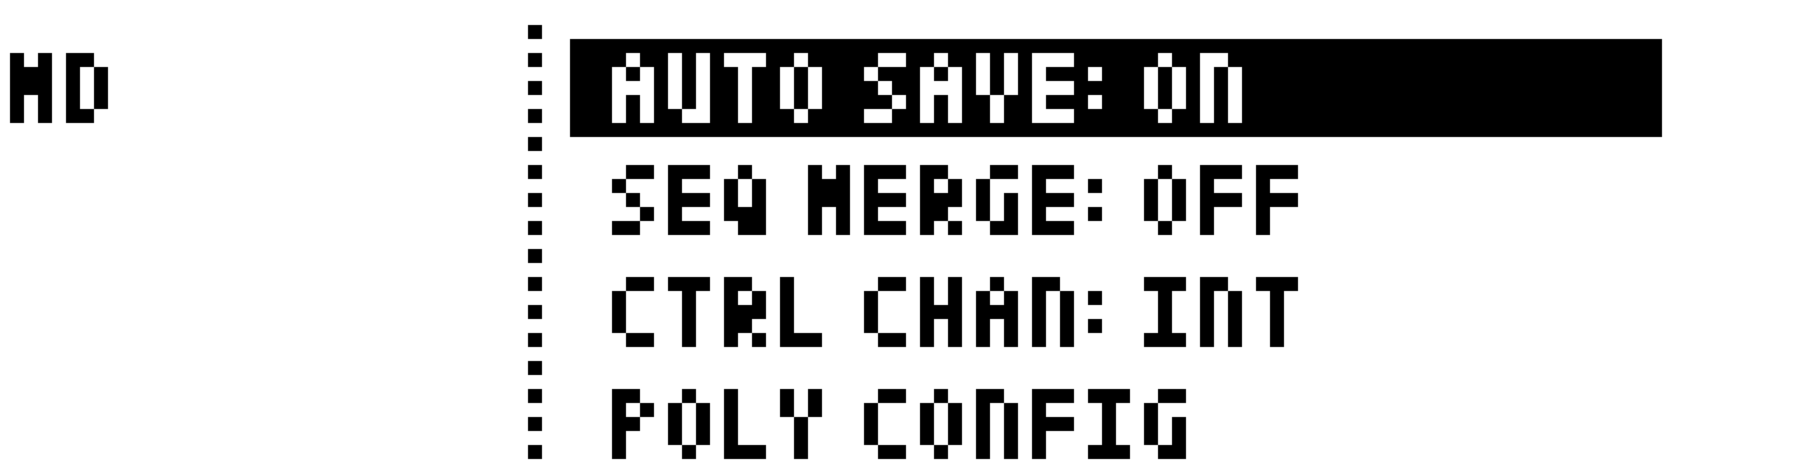
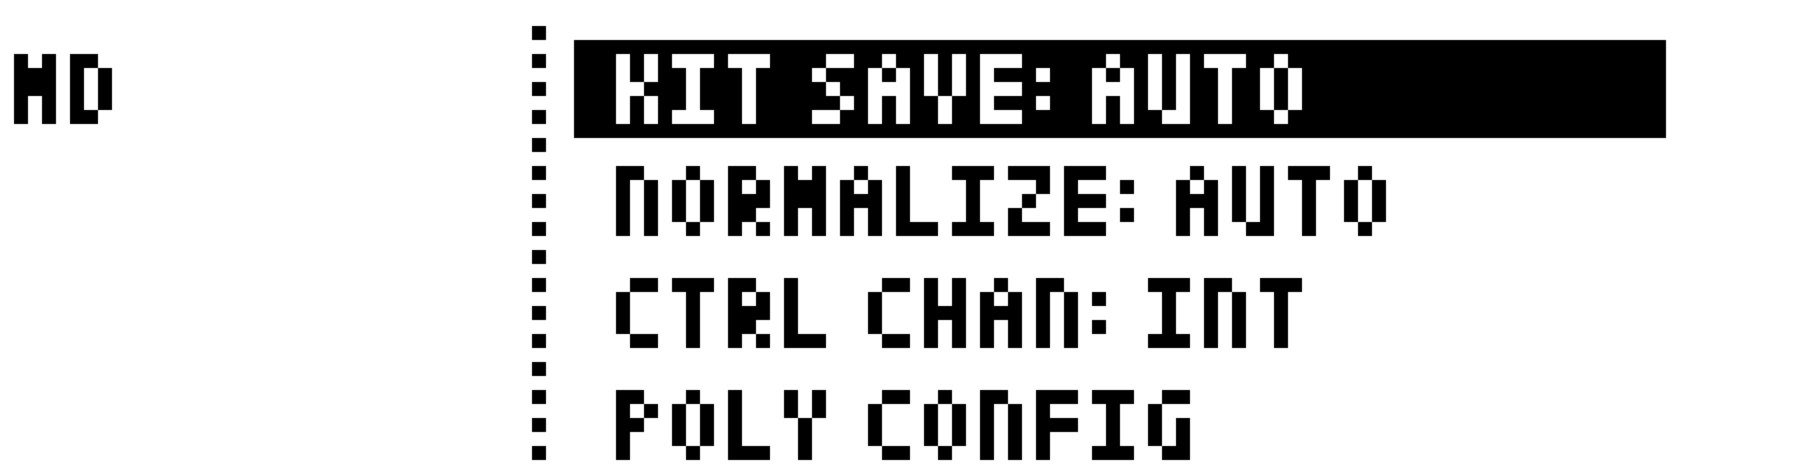
Updates from Overleaf

diff --git a/MCL Documentation/TeX_files/loudness_page.tex b/MCL Documentation/TeX_files/loudness_page.tex
@@ -1,22 +1,23 @@
 \chapter{Loudness Page}
-Gain staging and loudness levels between patterns on the MD can be a complicated issue.\\
+Gain staging and matching loudness levels between patterns on the MD can be a complicated issue.\\
 \\
-As a general rule of thumb, the track LEV parmater should control the absolute volume of a track where as the VOL parameter should be used to control relative level to other tracks. This means that you can confidently set a sounds level to it's maximum by turning the LEV paramater to 127, and not unexpectedly exceed it.\\
+As a general rule of thumb, the track LEV parameter should control the absolute volume of a track; the VOL parameter should be used to control relative level to other tracks. This allows setting a sound level to its maximum by turning the LEV paramater to 127, and not unexpectedly exceed it.\\
 \\
-When working on different kits you can end up with completely different loudness levels, depending on your style of programming and the configuration of master effects.\\
+When working on different kits you can end up with completely different loudness levels, depending on your style of programming and the configuration of master effects.\\\\
+\fbox{\includegraphics[scale=.40]{loudness_page.png}}
+\\\\\textit{The Loudness Page is accessible from the PageSelect page.}
+\section{Encoder Assignment:}
+\begin{itemize}
+	\item \textbf{[ Encoder 1 ]: } Gain adjustment
+	\item \textbf{[ Encoder 2 ]: } -
+    \item \textbf{[ Encoder 3 ]: } -
+	\item \textbf{[ Encoder 4 ]: } -
+\end{itemize}
 
-The Loudness page features 3 key functions that attempts to address this.
-
-\section{Functions:}
-
-**Track Level Normalise:** When activated,  all track levels have their LEV boosted to 127, and parameters controlling VOL (including parameter locks) are lowered to compensate. 
-
-The resulting track loudness remains the same, but the Track LEV parameter is no longer set arbitrarily. LEV == 127 will always be the loudest volume for a track.
-
-Gain Boost:
-
+\section{Gain Boost:}
 The ability to boost / reduce the VOL of all tracks in the current kit by a percentage amount.
+\\Pressing any of the encoder buttons will apply the boost/reduction.
 
-Peak Analyser.
-
+\section{Peak Analyser.}
+\textbf{[Save]}\\\\
 The MD is instructed to record 1 Bar of the current pattern. The recording is transferred to the MegaCommand and the WAV file is decoded and analysed. The peak value in the recording is found and this is used to determine an appropriate gain boost to increase pattern/kit loudness using the Boost function above.

diff --git a/MCL Documentation/TeX_files/md_settings.tex b/MCL Documentation/TeX_files/md_settings.tex
@@ -2,18 +2,13 @@
 The Machinedrum settings are used to control how the MCL firmware interacts with the MD.
 \fbox{\includegraphics[scale=.40]{machinedrum_menu.png}}\\
 \section{Kit Save:}
-MCL will periodically request the current Kit from the MD. In order to get the most up-to-date copy of the kit, it must first instruct the MD to save the kit. You can choose to disable this behaviour by turning AUTO SAVE to off. \textit{Some pages may not work correctly if Kit Save is disabled, as they require an up-to-date cache of the current kit).}
+Before entering a Page, MCL will attempt to download the MD's current kit. In order to get an up to date version of the kit, it must first instruct the MD to save the current kit. You can choose to disable this behaviour by turning AUTO SAVE to off. By disabling this, some pages may not work correctly.
 \section{Normalize:}
-Auto Normalize: When activated,  all saved tracks have their LEV boosted to
-127, and parameters controlling VOL (including parameter locks) are lowered
-to compensate. VOL parameter locks and LFOs with destination VOL are 
-adjusted too.
-
-The resulting track loudness remains the same, but the Track LEV parameter
-is no longer set arbitrarily. LEV == 127 will always be the loudest volume
-for a track.
-
-This is extremely useful when using the Mixer.
+When activated, all saved tracks have their LEV boosted to 127, and parameters controlling VOL (including parameter locks) are lowered
+to compensate. LFOs with destination VOL are 
+adjusted too.\\
+\\
+The resulting track loudness remains the same, but the Track LEV parameter is no longer set arbitrarily. LEV == 127 will always be the loudest volume for each track.
 \section{CTRL CHAN:}
 The CTRL CHAN setting is used to specify which note data the MD responds to when in Chromatic modes. \\\\The default value is INT (internal) and states that the MD will be controlled by the Trigger Interface (TI) in chromatic mode. \\
 \\If set to a channel number, the MD will be controlled by the specified MIDI channel on port 2. If set to OMNI the MD will be controlled by any channel on port 2.

diff --git a/MCL Documentation/TeX_files/GUI.tex b/MCL Documentation/TeX_files/GUI.tex
@@ -24,5 +24,22 @@ From the Grid Page the encoder buttons are used to access Sequencer Pages:
 \item{\textbf{[Encoder 4]}: Enter sequencer Chromatic page}
 
 \end{itemize}
+\section{Trigger Interface}
+When connected to the Elektron MachineDrum, MCL will use the Machinedrum's 16 trigger buttons as additional GUI input. \\
+\\
+If connected to the Elektron AnalogFour (A4), MCL will use the A4's mini keyboard buttons as additional GUI input. Notes C,D,E,F are used to select A4 tracks 1,2,3,4 respectively.\\
+\\
+Depending upon the current page, the Trigger Interface (TI) works in a variety of ways.\\
+\\For example, the TI can be used to enter sequencer data in to the internal sequencer;
+to select multiple tracks on the Mixer page and attenuate their volume simultaneously; to save or load Grid Slots from the Save or Chain pages and much more.
+
+\subsection{MD Trigger Interface Limitations}
+The MD TI is not natively supported by the MD and is instead achieved using a Global Slot/MIDI Channel exploit. The exploit is used to allow the user to press trigger buttons without triggering internal sounds. It also differentiate between notes triggered by the sequencer and notes triggered by a user key-press.\\
+\\
+The TI will cease working whenever the MD display is updated unexpectedly, for example, when a machine parameter's value is changed; or when a sub-menu on the MD is opened.\\
+\\
+As a precaution, whenever entering a Page on the MC that uses the TI, the MD's current track will automatically change to a track without Parameter locks. This avoids unexpected display updates that may be caused by transmitted Parameter Changes. If all tracks have parameter locks, then Track 16 will be chosen. Parameter Locks on Track 16 will therefor not be transmitted when the TI is active.\\
+\\
+\textit{Recovery: If the Trigger Interface stops working exit all submenus on both the MD and MC. On the MD press \textbf{[ Func + Extended ]} to reset the state of the MD.}
 
 

diff --git a/MCL Documentation/TeX_files/SlotMenu.tex b/MCL Documentation/TeX_files/SlotMenu.tex
@@ -4,7 +4,7 @@ The Slot Menu is an important sub-menu of the Grid Page and is used to manipulat
 It can be used to clear, copy, paste one or more slots in a row or to configure a slot's chain settings. It also provides an option to rename the current row and provides a quick way to activate or deactivate various Global Chain Modes.
 \\\\
 %\begin{center}
-\includegraphics[scale=.35]{slot_menu.png}
+\fbox{\includegraphics[scale=.35]{slot_menu.png}}
 %\end{center}
 \\\\
 \textit{The SlotMenu is accessible from the GridPage by holding down the  \textbf{[Shift2]} function 
@@ -26,7 +26,7 @@ Slot Menu has following options and selectable values:
 \item{Row:    (0,127)}
 \subitem{- specify which row, the current slot is to load/jump to after n loops.}
 \item{Apply: (0,20)}
-\subitem{- apply the above changes to the next N slots upon exit of SlotMenu.}
+\subitem{- apply the selected changes to the next N slots upon exit of SlotMenu.}
 \item{Clear: [ --, YES ]}
 \subitem{- clear the selected slot(s).}
 \item{Copy: [ --, YES ]}
@@ -37,5 +37,6 @@ Slot Menu has following options and selectable values:
 \subitem{- rename the current row.}
 \end{itemize}
 \section{HD44780 LCD users:}
-\textit{Note: For users running MCL on a \textbf{HD44780 LCD}, the SlorMenu  is accessible from the GridPage by holding down the  \textbf{[Shift2]} function button and pressing a corresponding encoder button. For example if slots 5 to 8 are displayed on screen, holding  \textbf{[Shift2]} and then pressing \textbf{[Encoder3]} will open the slot menu for slot 7.}
+\textit{Note: For users running MCL on a \textbf{HD44780 LCD}, the SlorMenu  is accessible from the GridPage by holding down the  \textbf{[Shift2]} function button and pressing a corresponding encoder button.\\
+\\For example if slots 5 to 8 are displayed on screen, holding  \textbf{[Shift2]} and then pressing \textbf{[Encoder3]} will open the slot menu for slot 7.}
 

diff --git a/MCL Documentation/TeX_files/mixer_page.tex b/MCL Documentation/TeX_files/mixer_page.tex
@@ -1,5 +1,5 @@
 \chapter{Mixer Page:}
-The mixer page graphically illustrates the Volume Levels of the sixteen MD tracks of the current Kit.\\
+The mixer page graphically illustrates the audio  levels of the sixteen MD tracks of the current Kit.\\
 \\
 The trigger interface is used in conjunction with \textbf{[ Encoder 1]} to raise or lower the volume of multiple tracks simultaneously. The remaining encoders can be used to adjust the filter parameters of the selected tracks. \\
 \\
@@ -15,9 +15,9 @@ The trigger interface is used in conjunction with \textbf{[ Encoder 1]} to raise
 
 
 \section{Audio Mutes}
-The top row of mixer page shows the Audio Mute state of each Track. \\
-This should not be confused with the the MD's sequencer mute state. \\The audio mute state changes the audio routing of muted tracks. When a track is muted from the Mixer Page, audio is routed to the Audio Output specified on the Route Page.
+The top row of mixer page shows the Audio Mute state of each Track. The audio mute state changes the audio routing of muted tracks. When a track is muted from the Mixer Page, audio is routed to the Audio Output specified on the Route Page.\\
 \\
-Holding down \textbf{[ Chain ]} and pressing a trigger button on the MD allows you to quickly toggle the mute state of a track.\\
-\section{Audio Solo}
-Holding down \textbf{[ Save ]} and pressing a trigger button on the MD allows you to quickly solo selected tracks.
+\textit{Audio mutes are independent from the MD's sequencer mute page} \\
+\subsection{Mute Tracks}Holding down \textbf{[ Chain ]} and pressing a trigger buttons on the MD allows you to quickly toggle the mute state of a track.
+\subsection{Solo Tracks}
+Holding down \textbf{[ Save ]} and pressing the trigger buttons on the MD allows you to quickly solo selected tracks.

diff --git a/MCL Documentation/TeX_files/route_page.tex b/MCL Documentation/TeX_files/route_page.tex
@@ -1,8 +1,8 @@
  \chapter{Route Page:}
- The (Audio) Route Page is used to send the audio of a specific MD track to a selected output. \\
- \\\textbf{[ Encoder 1]} can be used to select the audio output to MD external outputs C -> F.\\
+ The Route Page is used to direct the audio of a specific MD track to a selected output. \\
+ \\\textbf{[ Encoder 1]} can be used to select the audio output destination. The destination can be one of MD's external outputs C, D, E, F.\\
 
-\fbox{\includegraphics[scale=.40]{cue_page.png}}\\\\
+\fbox{\includegraphics[scale=.40]{route_page.png}}\\\\
  \textit{The Route Page is accessible from the PageSelect page.}
   \section{Encoder Assignment:}
  \begin{itemize}
@@ -11,9 +11,9 @@
  	\item \textbf{[ Encoder 3 ]: } Quantization
  	\item \textbf{[ Encoder 4 ]: } --
  \end{itemize}
-  The trigger interface used to toggle the output of selected tracks, between Main Outputs and the chosen external output.
+  The trigger interface is used to toggle the output of selected tracks, between Main Outputs and the chosen external output.
  \section{Quantization Modes:}
- Quantization modes are used to control the behaviour of the cue operations and allow for cue events to be musically timed.\\
+ Quantization modes are used to control the timing of the routing changes so that they are in sync with the sequencer.
  \\
  When a numerical quantization value is chosen the selected track’s cue will be toggled on the next specified multiple of the step-count.
  \begin{itemize}

diff --git a/MCL Documentation/TeX_files/save_page.tex b/MCL Documentation/TeX_files/save_page.tex
@@ -2,17 +2,15 @@
 
 The Save Page is used to save track data from the Machinedrum or AnalogFour to a specific slots in the current row of the Grid.\\
 \\
-When a track is saved to a slot, the MD's Machine settings and the MC's internal sequencer data for that track are stored together.\\
+When a MD's track is saved to a slot, the track's Machine settings and the MC's internal sequencer data for the chosen track are stored together.\\
 \\
-Similarly, when an A4 track is saved, the Sound Settings for the current track together with the internal sequencer data are stored together.\\
+Similarly, when an A4 track is saved, the Sound Settings for the chosen track together with the internal sequencer data are stored together.\\
 \\
-\textbf{To retain the MD's pattern data for the current track, you must use the sequencer Merge functionality described below.}\\
+\textbf{To retain the MD's pattern data for the selected track(s), you must use the sequencer Merge functionality described below.}\\
+\\Master Effects settings are also saved with each MD Track.\\\\
+\fbox{\includegraphics[scale=.40]{save_page.png}}\\
 \\
-Master Effects settings are also saved with each MD Track.
-\\\\
 \textit{The Save Page is accessible from the GridPage by pressing the  \textbf{[Save]} function button.}
-\\\\
-	\fbox{\includegraphics[scale=.40]{save_page.png}}
 \section{Encoder Assignment:}
 \begin{itemize}
 	\item \textbf{[ Encoder 1 ]: }Merge

diff --git a/MCL Documentation/TeX_files/sound_page.tex b/MCL Documentation/TeX_files/sound_page.tex
@@ -1,4 +1,22 @@
 \chapter{Sound Browser Page:}
-The sound browser page is used to store and recall sounds from the Machinedrum.
-
-A sound can consist of machine settings from a single track, or two adjacent tracks.
+The Sound Browser page is used to store and recall sounds from the Machinedrum.\\
+\\
+A sound can consist of machine settings from a single track, or two linked tracks.\\
+\\
+Two tracks can be linked by configuring the TrigGroup settings on one, to trigger the other. When two tracks are linked, both the source and destination track machine settings will be stored together to form a single sound.\\
+\\
+\fbox{\includegraphics[scale=.40]{sound_page.png}}\\\\
+ \textit{The Sound Page is accessible from the PageSelect page.}
+ \section{Navigating the Sound Browser page.}
+ Rotate \textbf{[Encoder 2]} to iterate through the menu items.\\
+ \\Press an encoder button to make your selection.
+ The function buttons can be used to exit/cancel.
+ 
+ \section{Saving Sounds}
+ To save a new Sound. 
+\begin{enumerate}
+ \item Select the desired track on the MD.
+ \item From the Sound Page, select save.
+\end{enumerate}
+\section{Loading Sounds}
+To load a new sound, select the sound the from the Sound Browser page.

diff --git a/MCL Documentation/TeX_files/midi_settings.tex b/MCL Documentation/TeX_files/midi_settings.tex
@@ -1,13 +1,13 @@
 \chapter{MIDI Settings:}
 The MIDI menu allows you to configure MIDI ports one and two.\\
 \fbox{\includegraphics[scale=.40]{midi_menu.png}}
-\subsection{Turbo MIDI:}
+\section{Turbo MIDI:}
 The TURBO MIDI speed can be set for each port (8x turbo is recommended for best performance.) To disabled turbo MIDI set the speed to 1x.
-\subsection{MIDI Clock:}
+\section{MIDI Clock:}
 MCL does not generate its own MIDI Clock, instead it relies on a clock signal from either port 1 or port 2.\\\\
 The CLK REC parameter can be used to set the receive port for the MIDI clock.\\
 The CLK SEND parameter can be used to forward the MIDI Clock from port 1 to port 2.\\\\
 \textit{Note: The MD's clock settings are controlled by MCL and will be automatically configured based on the options selected above.}
 
-\subsection{MIDI Forward:}
+\section{MIDI Forward:}
 The MIDI FWD option allows you to forward MIDI messages received on port 1 to the MIDI out of port 2 or vice versa.

diff --git a/MCL Documentation/TeX_files/chain_settings.tex b/MCL Documentation/TeX_files/chain_settings.tex
@@ -7,6 +7,6 @@ The CHAIN setting enables or disables Chain Mode.\\
 \begin{itemize}
 \item Automatic: If the number of loops is greater than 0, slots will automatically jump to the specified Row after N loops.
 \item Manual: Automatic slot jumping is disabled, but tracks can be chained using the quantization rules in the Chain Page.
-Random: Slots will jump after a random number of iterations to a random row position bounded by the min and max settings specified in Global Settings.
-\item Rand Min/Max: The random min + max values are used to specify the minimum + maximum range of rows that will be loaded when random mode is enabled.
+\item Random: Slots will jump after a random number of iterations to a random row position bounded by the min and max settings specified in Global Settings.
 \end{itemize}
+\section{Rand Min/Max:} The random min + max values are used to specify the minimum + maximum range of rows that will be loaded when random mode is enabled.

diff --git a/MCL Documentation/TeX_files/introduction.tex b/MCL Documentation/TeX_files/introduction.tex
@@ -19,4 +19,4 @@ At the heart of MCL lies the ability to copy individual Tracks from the MD and s
 MCL features a modern sequencer replacement for the Elektron Machinedrum. It consists of 20 local sequencer tracks with individual track lengths, parameter locks, micro-timing and conditional trigs. Sixteen of these tracks can be used to sequence the Elektron MD, the remaining four tracks are polyphonic and can be used to sequence external instruments such as the Elektron Analog 4. 
 \\
 \\
-Other features of the MCL firmware include: MD Trigger Interface, Chromatic + Polyphonic Mode,  Level Mixer, Audio Mute + Routing System, Sound Browsr, RAM recorder, Single Cycle Waveform Designer, Turbo 8x MIDI and much more.
+Other features of the MCL firmware include: MD Trigger Interface, Chromatic + Polyphonic Mode,  Level Mixer, Audio Mute + Routing System, Sound Browser, RAM recorder, Single Cycle Waveform Designer, Turbo 8x MIDI and much more.

diff --git a/MCL Documentation/TeX_files/chain_mode.tex b/MCL Documentation/TeX_files/chain_mode.tex
@@ -1,5 +1,5 @@
 \chapter{Chain Mode:}
-Chain mode was inspired by old school music tracker software that generate music by iterating through sequences and sounds stored in in vertical columns.
+Chain mode was inspired by old school music tracker software that generate music by iterating through sequences and sounds stored in vertical columns.
 \section{Functionality:}
 Each slot in the Grid has the ability to play for N loops and then jump to another slot in a specific row of the same column.  These values are specified by the LOOPS and ROW settings in the SlotMenu and apply to the current slot. Jumping between slots is referred to as a transition. Just before a transition occurs, Machine settings are sent to the MD and the internal sequencer data for that track is loaded. All 20 tracks can be configured to transition at the same time.\\
  \\
